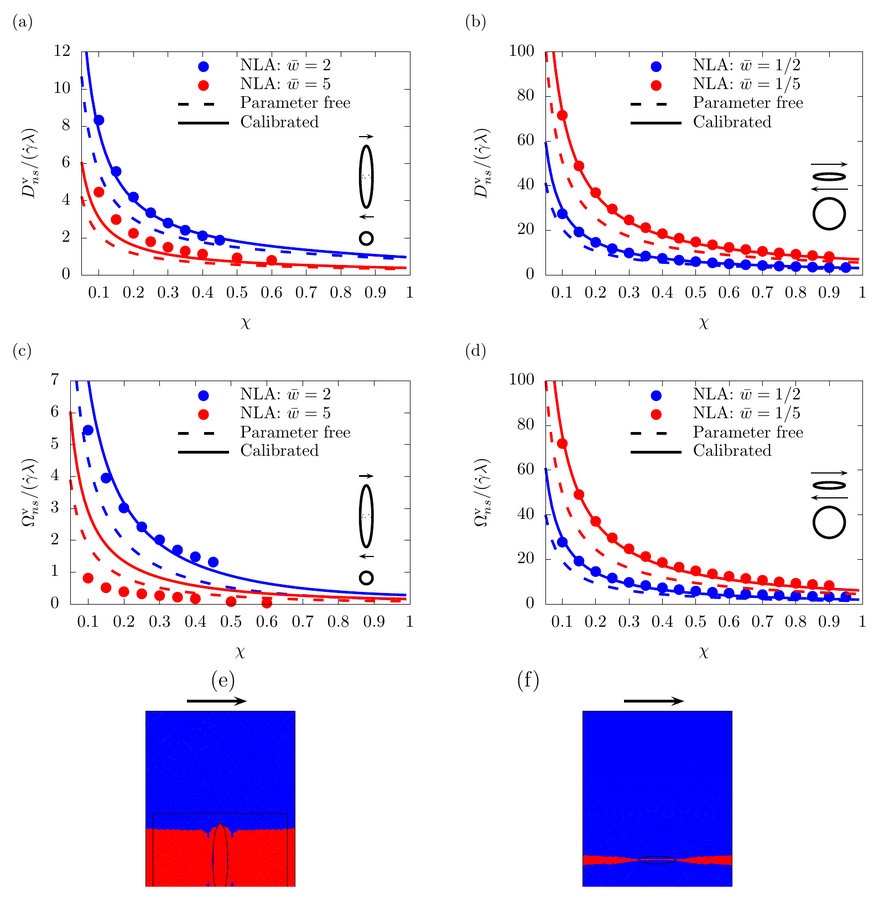
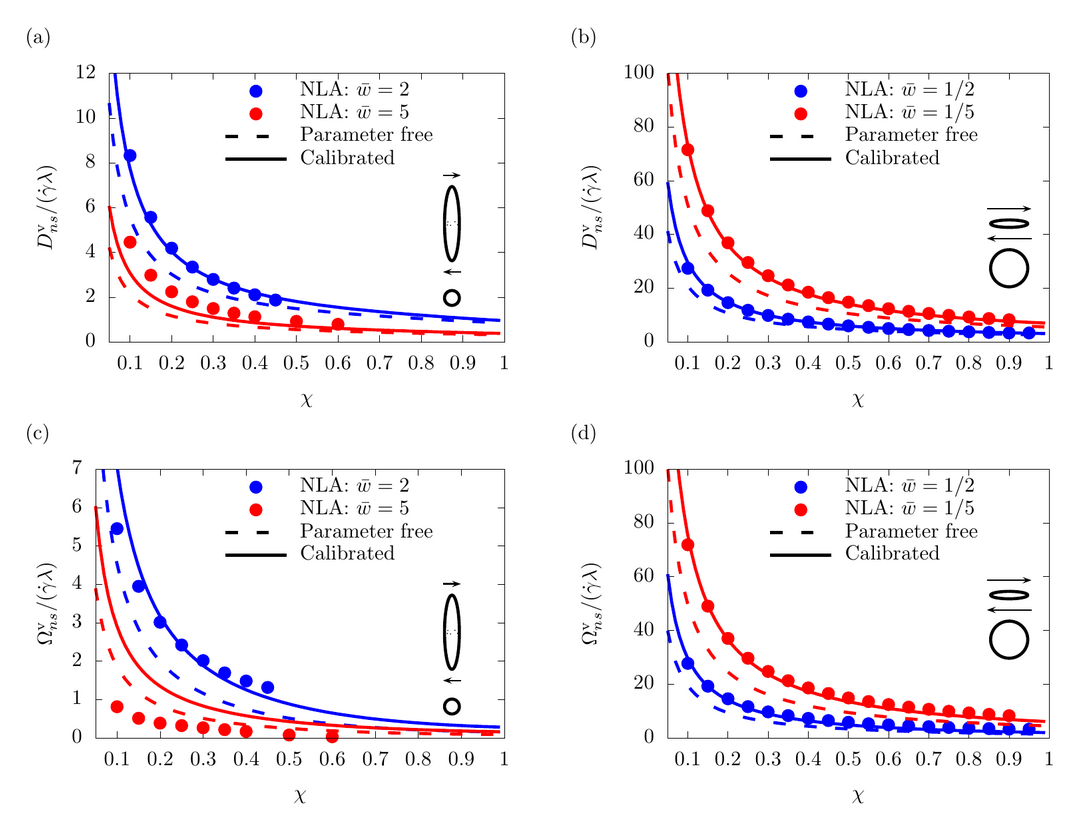
Crop evolution-equations figure to the four rate plots

diff --git a/publications.html b/publications.html
@@ -55,7 +55,7 @@
                 </div>
             </article>
             <article class="paper" id="jmps2025-evolution">
-                <a class="paper-fig" href="research/jmps2025-evolution.png" target="_blank" title="Open full-size figure"><img src="research/jmps2025-evolution.png" alt="Predicted versus numerically computed void shear and spin rates under shear, with elastically unloaded and plastic zones in the cell" loading="lazy"></a>
+                <a class="paper-fig" href="research/jmps2025-evolution.png" target="_blank" title="Open full-size figure"><img src="research/jmps2025-evolution.png" alt="Predicted versus numerically computed void shear and spin rates under shear for prolate and oblate voids" loading="lazy"></a>
                 <div class="paper-body">
                     <h3><a href="https://doi.org/10.1016/j.jmps.2024.105973" target="_blank">Unhomogeneous Yielding of Porous Materials&mdash;Evolution Equations</a></h3>
                     <p class="paper-cite">R. Vigneshwaran and A.A. Benzerga. <em>Journal of the Mechanics and Physics of Solids</em> 196 (2025) 105973.</p>
